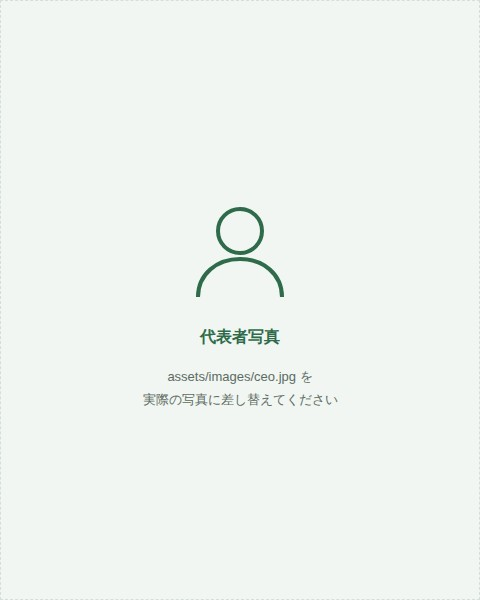
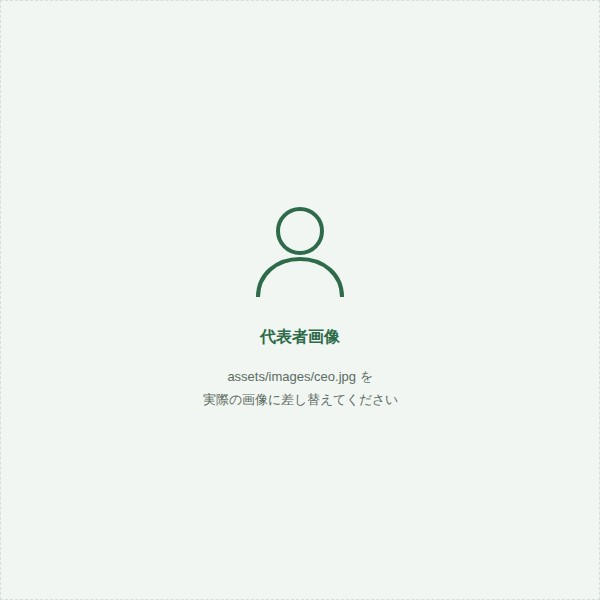
代表者画像の表示枠を1:1に変更
差し込む画像が正方形になったため、トリミングが入らないよう枠を4:5から
1:1に変更。プレースホルダ画像も600x600で作り直した。

- style.css: .message-figure img の aspect-ratio を 1 / 1 に
- company.html: img の width/height を 600x600 に、alt を画像の内容に合わせて更新
- README: 差し替え手順を1:1前提の記述に更新

Claude-Session: https://claude.ai/code/session_01XvMSKszME1rHq9bP7pPeeL

Changed region(s): [[0.2812, 0.54, 0.6875, 0.69], [0.4062, 0.36, 0.5938, 0.51], [0.4688, 0.33, 0.5312, 0.36]]

diff --git a/company.html b/company.html
@@ -76,8 +76,8 @@
       <h2 class="section-title">代表者メッセージ</h2>
       <div class="message-block">
         <figure class="message-figure">
-          <img src="assets/images/ceo.jpg" width="480" height="600"
-               alt="代表取締役 橋本 未来の顔写真">
+          <img src="assets/images/ceo.jpg" width="600" height="600"
+               alt="デスクでノートパソコンに向かう代表取締役 橋本 未来">
           <figcaption>
             代表取締役　橋本 未来
             <span class="message-role">Miku Hashimoto, CEO</span>

diff --git a/assets/css/style.css b/assets/css/style.css
@@ -312,7 +312,7 @@ a { color: var(--color-accent); }
 .message-figure img {
   display: block;
   width: 100%;
-  aspect-ratio: 4 / 5;
+  aspect-ratio: 1 / 1;
   object-fit: cover;
   background: var(--color-bg-subtle);
   border-bottom: 3px solid var(--color-accent);

diff --git a/README.md b/README.md
@@ -23,16 +23,18 @@
 └── assets/
     ├── css/style.css     共通スタイル（緑基調のパレット＋レイアウト）
     ├── js/main.js        共通スクリプト（モバイルナビの開閉）
-    └── images/ceo.jpg    代表者写真（現在はプレースホルダ画像）
+    └── images/ceo.jpg    代表者画像（現在はプレースホルダ画像）
 ```
 
-## 代表者写真の差し替え
+## 代表者画像の差し替え
 
 `assets/images/ceo.jpg` は差し替え前提のプレースホルダです。
-同じパス・同じファイル名で実際の写真を上書きすれば、そのまま表示されます。
-表示枠は 4:5 の縦位置・`object-fit: cover` のため、縦長（例: 480×600px）の
-画像がそのまま収まります。別の縦横比の画像を使う場合は
-`style.css` の `.message-figure img` の `aspect-ratio` を調整してください。
+同じパス・同じファイル名で実際の画像を上書きすれば、そのまま表示されます。
+
+- 表示枠は 1:1（正方形）・`object-fit: cover`。正方形の画像がトリミングなしで収まります
+- 縦横比を変える場合は `style.css` の `.message-figure img` の `aspect-ratio` を調整
+- PNGなど拡張子が異なる場合は、ファイル名を合わせるか `company.html` の
+  `img` の `src` を変更してください
 
 ## 確認方法
 
